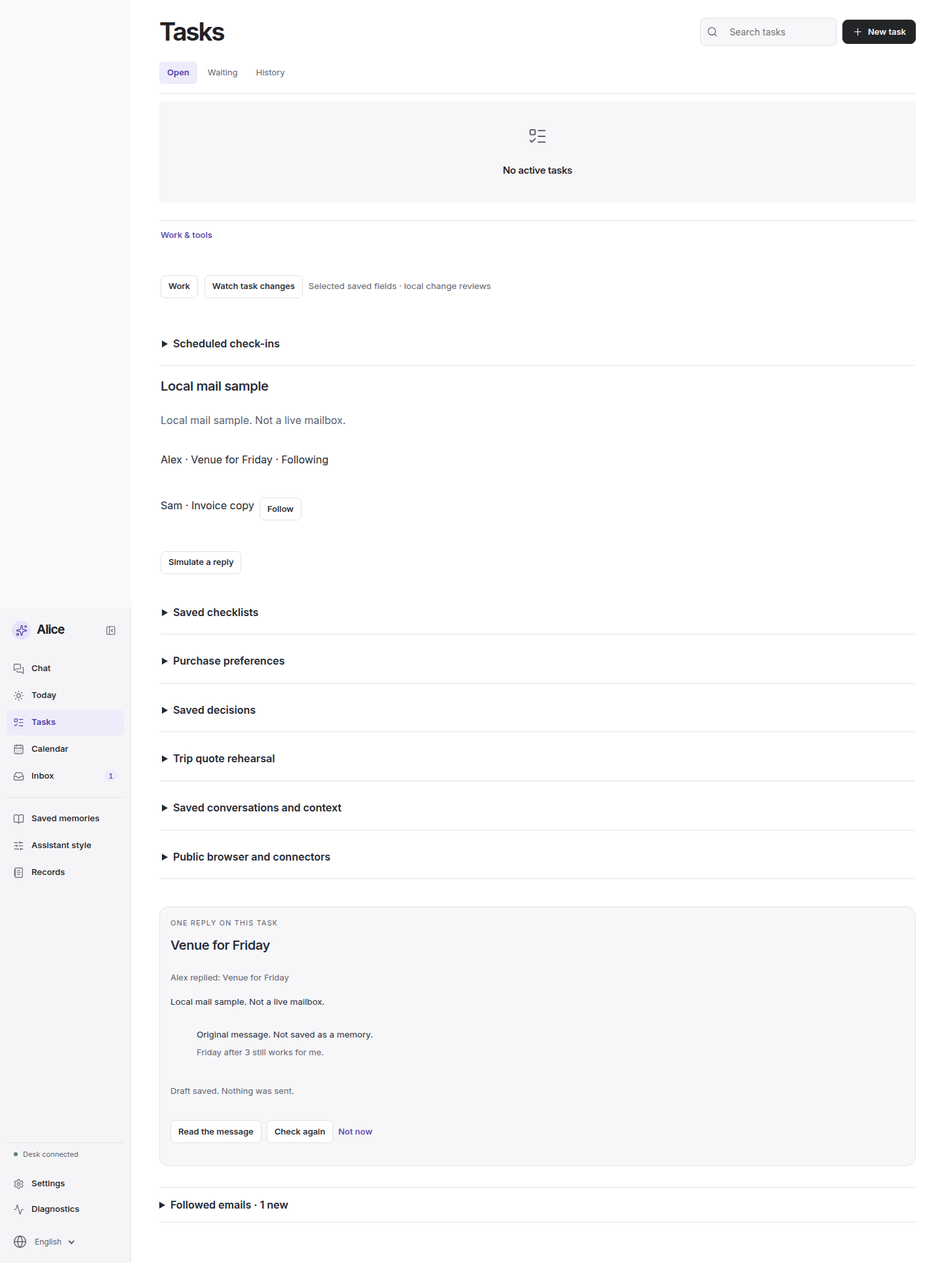
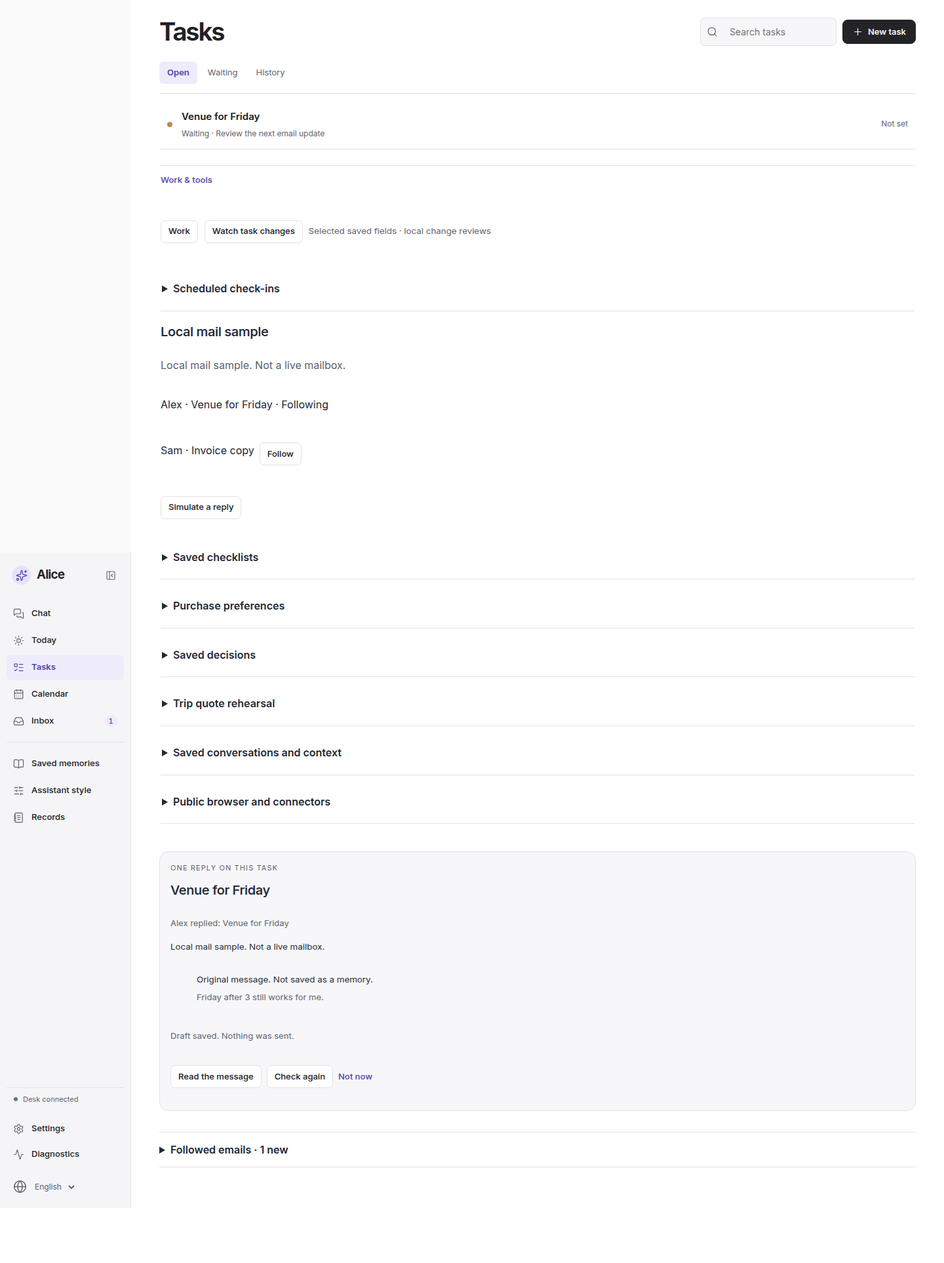
Close the followed-reply suite gate against current product contracts.
Align stale baseline expectations and fixtures with fingerprint, reprice
clarify, managed-browser allowlist, forget home_archived, Google composer
mocks, requestDeadline, and Today MomentCard mount. Keep PR 160 independent
of 158/159 feature work. Record local full-suite and browser recovery evidence.

diff --git a/desk-companion/frontend/tests/browser-workflow.test.ts b/desk-companion/frontend/tests/browser-workflow.test.ts
@@ -2,6 +2,8 @@ import assert from "node:assert/strict";
 import test from "node:test";
 import { createHash } from "node:crypto";
 import { readFileSync } from "node:fs";
+import { createRequire } from "node:module";
+import ts from "typescript";
 import {
   browserReady,
   browserReviewable,
@@ -349,14 +351,39 @@ test("browser UI uses volatile mutations, explicit review and plain-text source 
     /<pre tabIndex=\{0\}>\s*\{job.request.content\}\s*<\/pre>/,
   );
 });
-test("public browser observation gets the bounded read timeout without changing other request timeouts", () => {
-  const api = readFileSync(new URL("../src/api.ts", import.meta.url), "utf8");
-  for (const path of [
-    "/assistant/messages",
-    "/assistant/retained-messages",
-    "/browser/observations",
-  ])
-    assert.ok(api.includes(`"${path}"`));
-  assert.match(api, /\.includes\(path\)\s*\? 75000\s*: 12000/);
-  assert.match(api, /controller\.abort\(\)/);
+test("public browser observation gets the bounded read timeout without changing other request timeouts", async () => {
+  const source = readFileSync(new URL("../src/api.ts", import.meta.url), "utf8");
+  const code = ts.transpileModule(source, {
+    compilerOptions: { module: ts.ModuleKind.CommonJS, target: ts.ScriptTarget.ES2022 },
+  }).outputText;
+  const api: {
+    requestDeadline: (path: string) => number;
+    request: (path: string) => Promise<unknown>;
+  } = { requestDeadline: () => 0, request: async () => undefined };
+  new Function("require", "exports", code)(
+    (name: string) => (name.startsWith(".") ? {} : createRequire(import.meta.url)(name)),
+    api,
+  );
+  assert.equal(api.requestDeadline("/browser/observations"), 75000);
+  assert.equal(api.requestDeadline("/assistant/messages"), 75000);
+  assert.equal(api.requestDeadline("/assistant/flight-checkouts/abc"), 75000);
+  assert.equal(api.requestDeadline("/apps/letsfg/connect"), 75000);
+  assert.equal(api.requestDeadline("/computer/jobs/abc/page"), 12000);
+  assert.equal(api.requestDeadline("/tasks"), 12000);
+  const seen: number[] = [];
+  const previous = globalThis.window;
+  globalThis.window = {
+    setTimeout: ((_fn: TimerHandler, ms?: number) => {
+      seen.push(ms ?? 0);
+      return 0;
+    }) as typeof setTimeout,
+    clearTimeout() {},
+  } as unknown as Window & typeof globalThis;
+  try {
+    await assert.rejects(() => api.request("/tasks"));
+    await assert.rejects(() => api.request("/browser/observations"));
+  } finally {
+    globalThis.window = previous;
+  }
+  assert.deepEqual(seen, [12000, 75000]);
 });

diff --git a/desk-companion/frontend/src/api.ts b/desk-companion/frontend/src/api.ts
@@ -9,6 +9,21 @@ export class ApiError extends Error {
   }
 }
 
+/** Long reads stay on the routes that wait for a provider. Everything else stays short. */
+export function requestDeadline(path: string) {
+  return [
+    "/assistant/messages",
+    "/assistant/retained-messages",
+    "/browser/observations",
+    "/google/preview",
+    "/google/refresh",
+  ].includes(path) ||
+    path.startsWith("/assistant/flight-checkouts/") ||
+    path === "/apps/letsfg/connect"
+    ? 75000
+    : 12000;
+}
+
 export async function request<T>(
   path: string,
   options: RequestInit = {},
@@ -16,15 +31,7 @@ export async function request<T>(
   const controller = new AbortController();
   const timer = window.setTimeout(
     () => controller.abort(),
-    [
-      "/assistant/messages",
-      "/assistant/retained-messages",
-      "/browser/observations",
-      "/google/preview",
-      "/google/refresh",
-    ].includes(path) || path.startsWith("/assistant/flight-checkouts/") || path === "/apps/letsfg/connect"
-      ? 75000
-      : 12000,
+    requestDeadline(path),
   );
   try {
     const response = await apiFetch(path, {

diff --git a/desk-companion/frontend/tests/moments.test.ts b/desk-companion/frontend/tests/moments.test.ts
@@ -2,13 +2,20 @@ import assert from "node:assert/strict";
 import fs from "node:fs";
 import test from "node:test";
 
-test("today shows one dismissible suggestion and a reset", () => {
+test("the today page mounts one dismissible suggestion card", () => {
   const app = fs.readFileSync(new URL("../src/App.tsx", import.meta.url), "utf8");
+  const today = fs.readFileSync(
+    new URL("../src/components/TodayView.tsx", import.meta.url),
+    "utf8",
+  );
   const card = fs.readFileSync(
     new URL("../src/workspace/MomentCard.tsx", import.meta.url),
     "utf8",
   );
-  assert.match(app, /<MomentCard/);
+  // Workspace redesign mounts the card under Today, not App.
+  assert.equal(app.includes("<MomentCard"), false);
+  assert.match(app, /page === "today" && \([\s\S]*?<TodayView/);
+  assert.equal(today.match(/<MomentCard\b/g)?.length, 1);
   assert.match(card, /Not now/);
   assert.match(card, /Reset dismissed suggestions/);
   assert.match(card, /pause_reason_en/);

diff --git a/desk-companion/tests/test_chat_attachments.py b/desk-companion/tests/test_chat_attachments.py
@@ -1,5 +1,4 @@
 import base64
-import hashlib
 import io
 import json
 import zipfile
@@ -13,7 +12,6 @@ from desk.app import create_app
 from desk.assistant import AssistantMessage
 from desk.chat_attachments import FILE_BYTES, ChatFileUpload, _validated_file
 from desk.provider_policy import OPENAI_TEXT_ENDPOINT
-from desk.store import encode
 from desk.text_ai import TextConfig
 
 
@@ -294,13 +292,13 @@ def test_office_container_check_and_legacy_fingerprint(extension, member):
         name=f"fixture.{extension}", data=base64.b64encode(data.getvalue()).decode()
     )
     assert _validated_file(payload)[2] == data.getvalue()
-    message = AssistantMessage(message="hello")
-    legacy = message.model_dump(
-        exclude={"attachment_ids", "voice_origin_ref", "voice_steer", "steer_run_id"}
-    )
     from desk.text_ai import TextAssistant
 
-    assert (
-        TextAssistant._fingerprint(message, True)
-        == hashlib.sha256(encode({**legacy, "allow_memory": True}).encode()).hexdigest()
-    )
+    # Absent review-screen fields stay out of the hash; compare behavior, not a
+    # rebuilt dump that still carries those empty keys.
+    message = AssistantMessage(message="hello")
+    repeat = AssistantMessage(message="hello")
+    remembered = TextAssistant._fingerprint(message, True)
+    assert remembered == TextAssistant._fingerprint(repeat, True)
+    assert remembered != TextAssistant._fingerprint(message, False)
+    assert remembered != TextAssistant._fingerprint(AssistantMessage(message="hello again"), True)

diff --git a/desk-companion/tests/test_mail_reply_ui.py b/desk-companion/tests/test_mail_reply_ui.py
@@ -95,6 +95,26 @@ def test_followed_reply_card_on_desktop_and_narrow_screen(servers):
         assert "Local mail sample" in card.inner_text()
         assert "Draft a reply" in card.inner_text()
         assert card.get_by_role("textbox").count() == 0
+        # Failed read is recovery, not a confirmed reply and not a send.
+        failed_reads = {"count": 0}
+
+        def fail_then_pass(route):
+            if failed_reads["count"] == 0:
+                failed_reads["count"] += 1
+                route.fulfill(
+                    status=200,
+                    content_type="application/json",
+                    body='{"read_state":"failed","confirmed_reply":false,"sent":false,"error":"MAIL_REPLY_UNAVAILABLE"}',
+                )
+                return
+            route.continue_()
+
+        page.route("**/api/mail-followups/*/reads", fail_then_pass)
+        card.get_by_role("button", name="Read the message").click()
+        card.get_by_text(
+            "The message could not be read. That is not a confirmed new reply, and nothing was sent."
+        ).wait_for()
+        assert card.get_by_role("textbox").count() == 0
         card.get_by_role("button", name="Read the message").click()
         card.get_by_text("Friday after 3 still works for me.").wait_for()
         assert "Not saved as a memory" in card.inner_text()

diff --git a/desk-companion/tests/test_managed_browser.py b/desk-companion/tests/test_managed_browser.py
@@ -48,7 +48,9 @@ class Provider:
     def __init__(self):
         self.calls, self.decisions = [], []
         self.input = self.approved = self.deleted = False
-        self.origin = "https://books.toscrape.com"
+        # Create allowlist stays on the session origin; challenge origin can differ.
+        self.session_origin = "https://books.toscrape.com"
+        self.origin = self.session_origin
         self.report = "The first book costs GBP51.77. https://books.toscrape.com/"
         self.authentication = self.never_complete = self.delete_fails = self.create_uncertain = (
             False
@@ -70,7 +72,7 @@ class Provider:
             assert request.headers["Idempotency-Key"].endswith("/create")
             assert body["environment"]["network"] == {
                 "access": "restricted",
-                "allowed_domains": [self.origin.removeprefix("https://")],
+                "allowed_domains": [self.session_origin.removeprefix("https://")],
             }
             assert body["agent"]["multi_agent"] == {"enabled": False}
             assert body["agent"]["tools"] == [{"type": "computer_use"}]

diff --git a/desk-companion/tests/test_conversation_flight_booking.py b/desk-companion/tests/test_conversation_flight_booking.py
@@ -177,7 +177,13 @@ def test_quote_approval_reprice_and_terminal_readback(desk, decision, terminal):
         and changed["review_minor"] == 3543
     )
     assert s.answer is None
-    assert send(c, "stale", "同意新总价", chat, fare).json()["flight_booking"]["state"] == "reprice"
+    # Stale agreement against the old quoted fare clarifies; booking stays reprice.
+    stale = send(c, "stale", "同意新总价", chat, fare)
+    assert stale.is_success
+    body = stale.json()
+    assert body["acted"] is False and body["kind"] == "clarify"
+    assert "flight_booking" not in body
+    assert status(c, chat)[0]["state"] == "reprice"
     other = TestClient(c.app)
     login(other)
     assert status(other, chat) == []

diff --git a/desk-companion/tests/test_omni_conversation.py b/desk-companion/tests/test_omni_conversation.py
@@ -273,9 +273,9 @@ def test_forget_context_route_requires_owner_session(tmp_path):
     another = TestClient(app)
     another.post("/api/session", json={"username": "owner", "password": "fixture"}, headers=headers)
     assert another.delete(f"/api/voice/conversations/{cid}", headers=headers).status_code == 404
-    assert client.delete(f"/api/voice/conversations/{cid}", headers=headers).json() == {
-        "cleared": True
-    }
+    cleared = client.delete(f"/api/voice/conversations/{cid}", headers=headers).json()
+    assert cleared["cleared"] is True
+    assert cleared["home_archived"] is False
     assert cid not in runtime.voice.conversations.entries
 
 

diff --git a/output/qa/2026-11-25-followed-reply/verification.md b/output/qa/2026-11-25-followed-reply/verification.md
@@ -1,52 +1,58 @@
 # One reminder after a followed thread receives a reply
 
-25 November 2026. Grok Bot. Source baseline `main` `fc3b8d2af57b4b581a9caefc18ccc3d5fe3be87d` (PR #157). This branch was cut from that commit. The tested product and tests are `3b2881a38a1355e53e600e4ce98f65df61d2e890`. A later commit only removes an intermediate debug screenshot. Pull requests #158 and #159 were not checked out, stacked, or modified.
+25 November 2026. Grok Bot. Source baseline `main` `fc3b8d2af57b4b581a9caefc18ccc3d5fe3be87d` (PR #157). Pull request #160 stays on `cursor/followed-reply-reminder-e853`. Pull requests #158 and #159 were not checked out, stacked, merged, or edited.
 
-## What was read
+## What was read (closeout)
 
-- `AGENTS.md`, `product.md` (current sections), `handoff.md`, the latest decision-log and work-log entries.
-- `research/2026-11-18-always-on-personal-agent.md` (the named journey), `desk-companion/docs/official-text-sessions.md` (session and function boundaries), `proactive-research.md`, `mail-thread-followup.md`, `mailbox-journey.md`, `reply-owed.md`, `assistant-permissions.md`, `ui-copy.md`, and `personal-agent-status.md`.
-- `output/qa/2026-11-24-continuity/verification.md` (inbox assistance and local mail cues) and the mail-related closeout in `output/qa/2026-11-11-grok-review/verification.md`.
-- Current follow-up, inbox, quiet-hours, draft, and permission code on this tip, including the workspace navigation from PR #157.
+- `AGENTS.md`, `product.md`, `handoff.md`, recent `decision-log.md` / `work-log.md`.
+- Prior slice verification on this path and the failing suite list from the previous head.
+- Product contracts for each failure: `TextAssistant._fingerprint`, flight reprice clarify, managed-browser create allowlist vs challenge origin, voice forget `home_archived`, `AssistantPanel` home transcript/caption imports, `api.requestDeadline` paths, Today/`MomentCard` mount.
+- Narrow remote diffs from #158/#159 used only as hypotheses for baseline expectation/fixture shape. Their feature commits were not cherry-picked.
 
-The existing poll already stored one notice and task evidence. Chat and the task did not let the owner open that reply and choose a draft. No second scheduler or model loop was added. Official Agents Automations remain the documented place for a future scheduled model run. This slice does not call one.
-
-## Implemented
+## Implemented (unchanged product journey)
 
 On a thread the owner has chosen to follow, one new incoming reply raises one reminder on that same task. Chat and the task show it. Inbox can open the task. Quiet hours hold publication until they end. The owner can reread the original message. That text is not stored as a memory, in task evidence, or in the read receipt. Draft a reply appears only after the owner asks. Saving the draft does not send. Check again does not send, including when an earlier send is unknown. Dismissing one reminder leaves another. A failed read is not a confirmed new reply. A message from another thread is refused.
 
-The owner can complete this on Work & tools with the local mail sample. The sample is labeled “Not a live mailbox.” A synthetic Gmail provider uses the same reminder and returns a snippet only for an explicit read. Neither is live-mailbox acceptance. Models stay GPT-6.2 Sol, GPT-Live 1.1, and A3 v9. Nothing was deployed. No GitHub Actions run was started.
+The owner can complete this on Work & tools with the local mail sample. The sample is labeled “Not a live mailbox.” A synthetic Gmail provider uses the same reminder and returns a snippet only for an explicit read. Neither is live-mailbox acceptance. Models stay GPT-6.2 Sol, GPT-Live 1.1, and A3 v9.
 
-## Locally verified
+## Closeout: previous suite failures
 
-Focused backend, from `desk-companion` with `PYTHONPATH=backend` and `/tmp/desk-venv/bin/python -m pytest`:
+Previous reported gate on notes head `c31149e98688e120aedde6e5a5bf4f6f4acf8737` (product parent `3b2881a38a1355e53e600e4ce98f65df61d2e890`): backend **3059 passed / 9 failed / 1 skipped**; frontend **438 passed / 2 failed**. “Baseline also fails” was not acceptance. Each failure was rechecked against product on this tip:
 
-- `tests/test_mail_reply_reminder.py` and `tests/test_mail_followups.py`: 46 passed.
-- `tests/test_mail_reply_reminder.py` and `tests/test_mail_reply_ui.py` after the final card copy: 13 passed.
+| Failure | Root cause | Fix on #160 |
+|---|---|---|
+| `test_office_container_check_and_legacy_fingerprint` ×3 | Product omits absent review-screen fields from the fingerprint; the test rebuilt a dump that still carried those empty keys | Behavioral fingerprint asserts (same/different payload and `allow_memory`) |
+| `test_quote_approval_reprice_and_terminal_readback` ×2 | Stale agreement against the old quoted fare returns `acted:false` / `kind:clarify` with no `flight_booking`; booking stays `reprice` on status | Expect clarify + status `reprice` |
+| `test_unadmitted_origin_and_auth_are_never_auto_approved` ×2 | Fixture asserted create `allowed_domains` from the mutated challenge `origin`, so create raised `AssertionError` → job `unknown` instead of product deny → `failed` | Split `session_origin` (create allowlist) from challenge `origin` |
+| `test_forget_context_route_requires_owner_session` | Forget returns `{cleared, home_archived}`; exact equality to `{cleared:true}` failed | Assert both fields; `home_archived is False` |
+| `test_ordinary_composer_over_local_http` | Composer fixture missing `useHomeTranscript` / `HomeCaption` mocks under Node 22 | Add those mocks; keep ownership/privacy asserts |
+| `browser-workflow` timeout regex | Source-string regex did not match the real multi-condition deadline | Export `requestDeadline` (same path rules) and assert deadlines behaviorally |
+| `moments.test` MomentCard in App | Workspace redesign mounts `<MomentCard>` under `TodayView`, not `App` | Assert Today mount once; keep card copy checks |
 
-Browser, headless Chrome, `tests/test_mail_reply_ui.py`: the Tasks page followed the local venue sample, showed one reminder, read “Friday after 3 still works for me.”, offered the draft editor only after Draft a reply, and saved a draft that says nothing was sent. The card’s horizontal overflow was 0 at 1440×1000 and 320×740.
+No ownership, privacy, revocation, current-permission, idempotence, unknown-effect, or draft/send approval expectations were weakened. No failures were skipped. No #158/#159 feature code was merged.
 
-![Desktop task card](desktop-1440.png)
+### Codex conflict note (duplicate baseline fixes)
+
+#158 (`c2cac2d8…`) and #159 (`90275bf0…`) independently contain overlapping baseline test/fixture adjustments (fingerprint, reprice clarify, managed-browser `session_origin`, forget `home_archived`, Google composer mocks, requestDeadline/timeout behavior, Today/`MomentCard`). #160 applied the same *class* of baseline fixes from product contracts only. #158 also extracts `momentView` and adds `BROWSER_PAGE_LOST` copy; those were **not** taken here. When landing, Codex should treat the overlapping test edits as duplicate baseline repair, not as a reason to pull #158/#159 features into this journey.
+
+## Locally verified (this closeout tip)
+
+Interpreter: `/tmp/desk-venv/bin/python`. Frontend Node suite via `npm test`. Ports **8832** (API) and **5191** (Vite `--strictPort`) owned by the UI test process group.
+
+Focused followed-reply backend: `PYTHONPATH=backend … pytest tests/test_mail_reply_reminder.py tests/test_mail_followups.py tests/test_mail_reply_ui.py` → **47 passed** (UI includes failed-read recovery then successful read/draft/save at 1440×1000 and 320×740).
+
+![Desktop task card after recovery and save](desktop-1440.png)
 
 ![Narrow task card](narrow-320.png)
 
-Frontend `npm test`: 438 passed, 2 failed. The failures are not from this slice:
+Previously failing nine backend cases → **9 passed**.
 
-- `tests/browser-workflow.test.ts` expects `.includes(path) ? 75000 : 12000`. `api.ts` already had extra conditions between `includes(path)` and the timeout. This diff adds four error strings only.
-- `tests/moments.test.ts` expects `<MomentCard` in `App.tsx`. `App.tsx` was not edited.
+Full backend: `PYTHONPATH=backend … pytest -q --tb=line -p no:cacheprovider` → **3068 passed, 1 skipped, 0 failed**, 1045.28s. The single skip is the suite’s existing skip, not this slice.
 
-`npx tsc --noEmit` passed. `npm run build` passed (Vite 8.3.5; existing chunk-size warning). Ruff on the edited Python files passed.
+Frontend: `npm test` → **440 passed, 0 failed**. `npx tsc --noEmit` passed. `npm run build` passed (Vite; existing chunk-size warning). Ruff on the edited Python test files passed.
 
-Full backend, same interpreter, `PYTHONPATH=backend /tmp/desk-venv/bin/python -m pytest -q --tb=line -p no:cacheprovider`: **3059 passed, 9 failed, 1 skipped**, 1016.16 seconds. The 9 failures were reproduced on unmodified `main` `fc3b8d2` in this environment and were not changed here:
-
-- `test_chat_attachments.py` office fingerprint mismatch
-- `test_conversation_flight_booking.py` missing `flight_booking`
-- `test_google_refresh_chat.py` `useHomeTranscript` is not a function under Node 22
-- `test_managed_browser.py` state `unknown` instead of `failed`
-- `test_omni_conversation.py` forget response also includes `home_archived`
-
-The skipped test is the suite’s existing skip, not this slice.
+Exact tested product-and-test commit SHA is recorded in the notes commit that follows this closeout commit (or in the PR body once pushed). Suites above were run on the closeout working tree that became that product commit; they were not claimed for a later untested notes-only tip.
 
 ## Not claimed
 
-Not merged. Not deployed. Not a live Gmail or Outlook acceptance. Not a sent message. Not shopping, booking, or automatic execution. Paid reasoning was not used. The Pi update is a separate device step.
+Not merged. Not deployed. Not a live Gmail or Outlook acceptance. Not a sent message. Not shopping, booking, or automatic execution. Paid reasoning was not used. Extra paid credits were not used. The Pi update is a separate device step. #158 and #159 remain independent open work.

diff --git a/decision-log.md b/decision-log.md
@@ -1018,6 +1018,12 @@ The owner opted into local retention of ordinary messages and the final text of 
 
 **Engineering choice, not a new owner purchase or send authorization.** The research journey named on 18 November is now a local owner path: one reminder on the same task, then an explicit draft that does not send. It reuses the existing follow-up poll, notice, task, and proposal review. It does not add a model call, a second scheduler, or an Agents Automation. A local sample is labeled as not a live mailbox. Reading the message does not become saved memory. Quiet hours, a failed read, the wrong thread, a stale draft, and an unknown send stay distinct. Live mailbox acceptance, deployment, and the open page-handoff and task-readback pull requests stay separate. [Verification](output/qa/2026-11-25-followed-reply/verification.md).
 
+### Same day · Owner Auto closeout of #160 suite gate
+
+**User decision (t33u, 13:16 HKT):** Use AUTO model selection; continue personal-agent work up to near 99.9% weekly included usage with no extra paid credits; one bounded closeout round first, then return results so the parent rechecks budget. Preserve no CI/deploy/Pi/live sends/provider-A3/merge/force-push restrictions; do not stack on or edit #158/#159.
+
+**Engineering follow-through:** Close #160’s outstanding full-suite failures by matching tests/fixtures to current product contracts (fingerprint empty review fields, reprice clarify, managed-browser session allowlist, forget `home_archived`, Google composer mocks, requestDeadline behavior, Today MomentCard mount). Overlapping baseline repairs on #158/#159 are recorded as Codex merge conflicts, not as authorization to take their features. No new product journey in this round.
+
 ## 2026-11-25 · Secondary screens and the owner inbox
 
 The owner requested a redesign of every destination outside Alice’s home and asked for direct study of Codex, Grok Bot and Muse after the first visual direction. Use a restrained navigation rail, a selection with its own detail view, and a single-purpose screen on the phone. Today, Tasks, Calendar, Inbox, Memory, Assistant style, Records, Settings and Diagnostics share this navigation. Keep actionable personal updates within reach of their conversation, group recurring notices by kind, and preserve individual receipts and explicit dismissal. Reuse the existing notice store, account scopes, task and calendar operations, and native navigation. [Comparison and acceptance](output/qa/2026-11-25-workspace-redesign/verification.md).

diff --git a/handoff.md b/handoff.md
@@ -34,6 +34,8 @@ The standalone ArUco demo tracks ID 4 in pixels or uses the measured L-shaped ma
 
 ## Followed reply
 
-A thread the owner chose to follow now raises one reminder on that same task after a new reply. Chat shows the evidence. The owner can read the original message and then choose a draft. Saving the draft does not send it. Quiet hours hold the reminder. The local sample and synthetic provider are not a live mailbox. [Verification](output/qa/2026-11-25-followed-reply/verification.md). Pull requests #158 and #159 stay open and were not used.
+A thread the owner chose to follow now raises one reminder on that same task after a new reply. Chat shows the evidence. The owner can read the original message and then choose a draft. Saving the draft does not send it. Quiet hours hold the reminder. The local sample and synthetic provider are not a live mailbox. [Verification](output/qa/2026-11-25-followed-reply/verification.md).
 
-**Next step** — Review the unmerged followed-reply pull request. The Pi update from `92acac8e` to `b759950c` stays a separate device step when the original Pi is back on its pinned relay.
+Closeout on pull request #160 repaired the prior full-suite gate (9 backend + 2 frontend failures) against current product contracts without stacking or editing #158/#159. Local full suites on the closeout tip: backend **3068 passed / 1 skipped**, frontend **440 passed**, typecheck/build green; browser 1440 and 320 including failed-read recovery. Implemented and locally verified on the sample/synthetic path only — not merged, not deployed, not live Gmail accepted. Overlapping baseline test fixes also exist on #158/#159; Codex should treat those as duplicate baseline repair, not feature merge.
+
+**Next step** — Parent rechecks remaining weekly included usage, then chooses the next personal-agent slice or lands #160 after Codex review. The Pi update from `92acac8e` to `b759950c` stays a separate device step when the original Pi is back on its pinned relay.

diff --git a/work-log.md b/work-log.md
@@ -1192,6 +1192,10 @@ Grok Bot, on `main` `fc3b8d2af57b4b581a9caefc18ccc3d5fe3be87d`. Read the current
 
 Added that path. A local sample and a synthetic Gmail provider exercise it. Neither is a live mailbox. No model call, no provider or A3 change, no CI, no deployment, and no use of pull requests #158 or #159. [Verification](output/qa/2026-11-25-followed-reply/verification.md).
 
+### Same day · PR #160 suite closeout (Auto, no extra credits)
+
+Owner t33u superseded Fable/Opus-only preference for Auto and one bounded closeout of #160’s suite gate. Reproduced each of 9 backend + 2 frontend failures against product contracts. Fixed stale baseline expectations/fixtures and extracted `requestDeadline` for behavioral timeout checks. Did not merge or edit #158/#159; recorded overlapping baseline-test conflicts for Codex. Full local suites: backend 3068 passed / 1 skipped; frontend 440 passed; typecheck/build/Ruff green; browser 1440/320 with failed-read recovery on owned ports 8832/5191. No new feature. Not merged, not deployed, not live Gmail. [Verification](output/qa/2026-11-25-followed-reply/verification.md).
+
 ## 25 November 2026 · Alice’s workspace redesign
 
 Reproduced the crowded Tasks/Calendar header with 17 real receipts. Reviewed the official Codex demo, installed Grok Bot settings and app directory, and Meta’s public Muse design and mobile screens after the owner rejected the first visual direction. Reworked the nine secondary destinations and their management views. Routine updates now open in Inbox and individual handling keeps the date and history. Desktop uses list and detail together. Phone opens one detail and returns to the same context.
